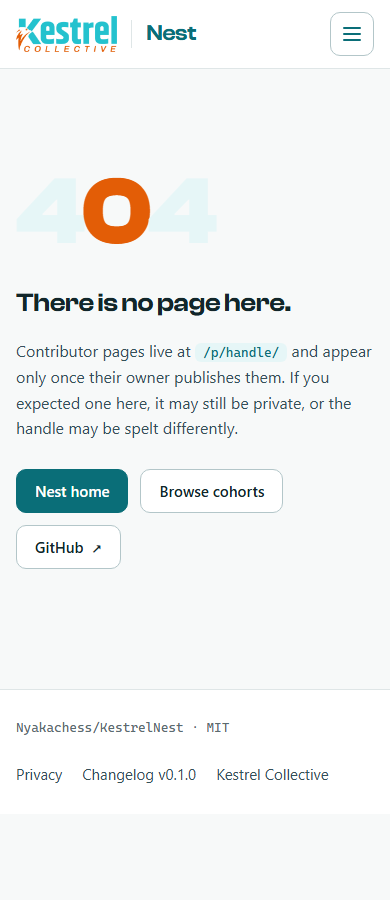
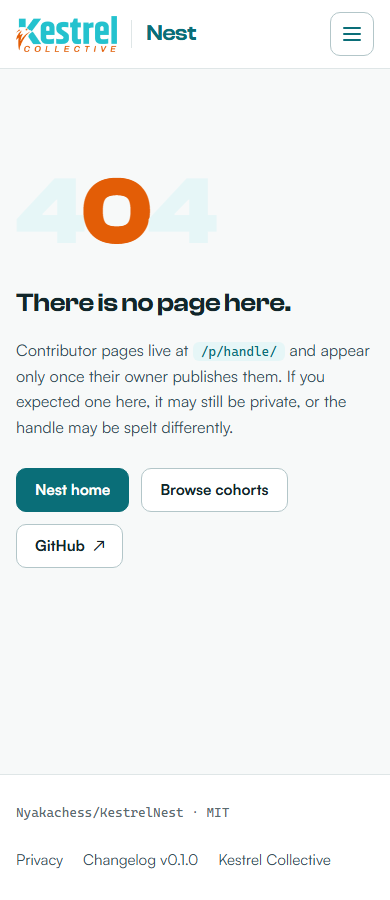
fix: keep the footer at the bottom of the window on short pages

diff --git a/site/src/styles/base.css b/site/src/styles/base.css
@@ -363,3 +363,15 @@ h3 {
 .more:hover {
   text-decoration: underline;
 }
+
+/* Sticky footer: the page fills the viewport and main takes the spare height, so the footer
+   sits at the bottom even when a page has little or no content. */
+body {
+  min-height: 100vh;
+  min-height: 100dvh;
+  display: flex;
+  flex-direction: column;
+}
+body > main {
+  flex: 1 0 auto;
+}
